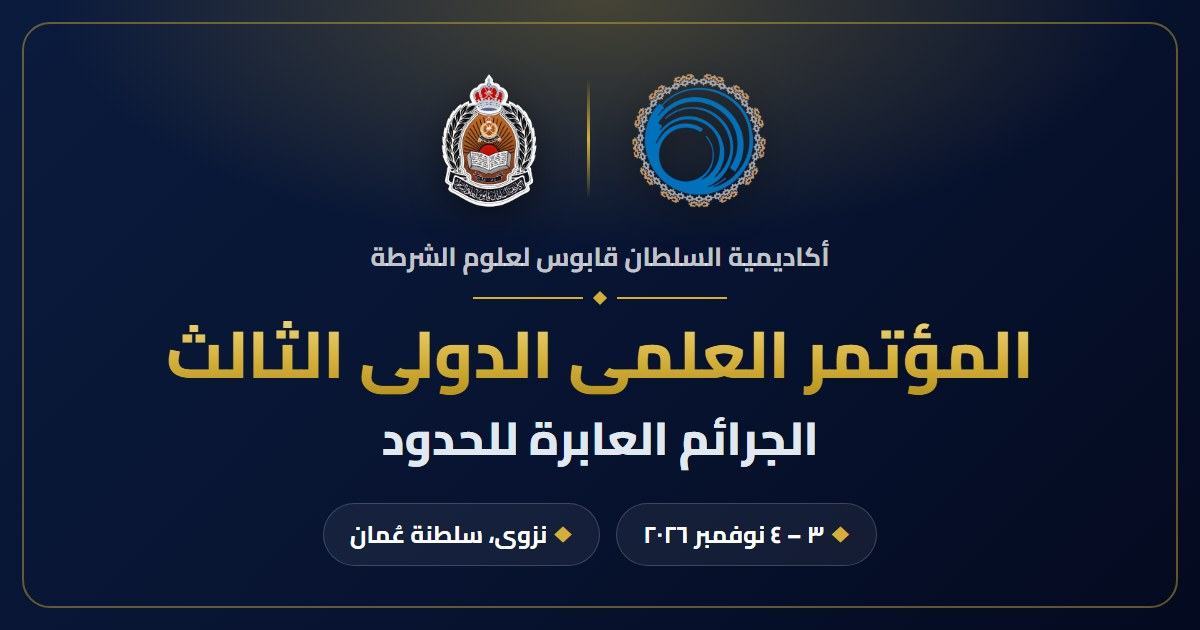
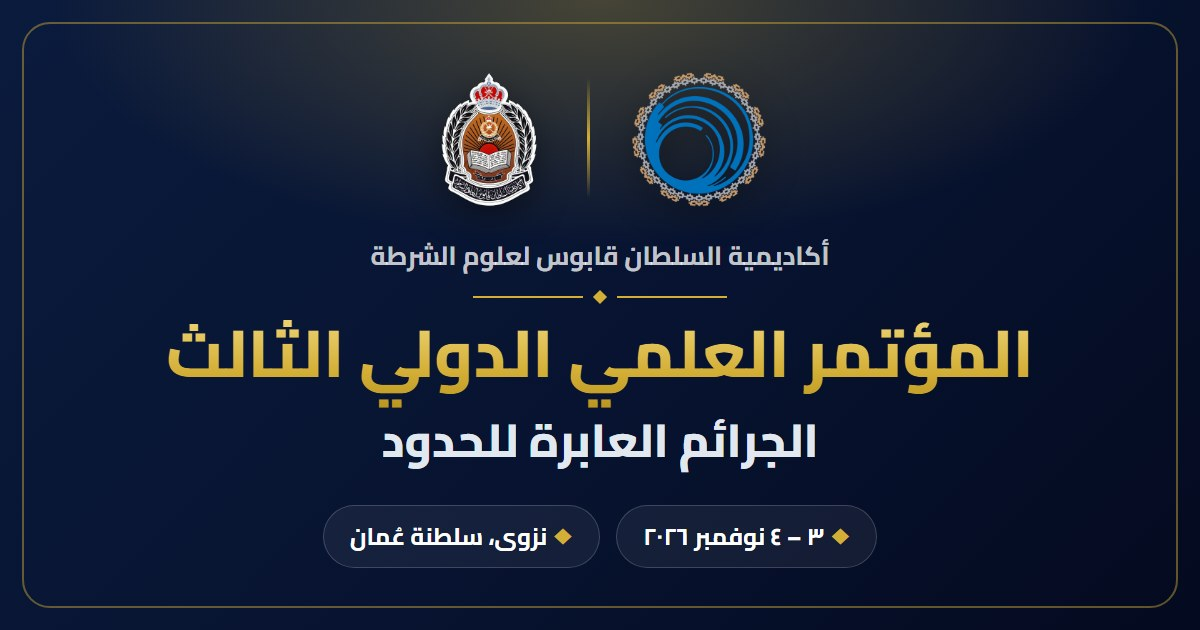
إظهار نقاط الياء في العنوان، وإرجاع الحركة بشكل مريح، وتحديث برنامج المؤتمر
- العنوان الذهبي: نقاط «ي» كانت تقع خارج صندوق التدرج (background-clip: text)
  فتختفي؛ أُضيفت مسافة سفلية للعنوان. وأُعيد إنتاج بطاقة المشاركة بنفس الإصلاح.
- الحركة: حركات دخول الهيدر والصفحة صارت CSS (تبدأ مع أول ظهور للصفحة بدون
  انتظار JavaScript)، وحُذف تعطيل كل الحركات عند إعداد «تقليل الحركة».
- برنامج المؤتمر: يُعرض في قسم البرنامج كلمة «الجلسة» بدل «المحور».

diff --git a/src/components/conference/Header.tsx b/src/components/conference/Header.tsx
@@ -76,12 +76,7 @@ export function Header() {
 
       <div className="relative mx-auto flex max-w-6xl flex-col items-center px-4 pb-24 pt-14 text-center sm:px-6 sm:pt-20 md:pb-32">
         {/* Dual logos: academy (right) — vertical interactive line — conference (left) */}
-        <motion.div
-          initial={{ scale: 0.96 }}
-          animate={{ scale: 1 }}
-          transition={{ duration: 0.6, ease: "easeOut" }}
-          className="group relative flex items-center gap-3 sm:gap-5"
-        >
+        <motion.div className="hero-pop group relative flex items-center gap-3 sm:gap-5">
           {/* Academy logo (RIGHT — first in RTL) — 3D effect, no box, no glow */}
           <motion.div
             whileHover={{ scale: 1.05, rotateY: -8 }}
@@ -149,34 +144,28 @@ export function Header() {
         </motion.div>
 
         {/* Academy name */}
-        <motion.p
-          initial={{ y: 8 }}
-          animate={{ y: 0 }}
-          transition={{ duration: 0.5, delay: 0.15 }}
-          className="mt-6 text-sm font-medium tracking-wide text-white/70 sm:text-base"
+        <p
+          className="hero-rise mt-6 text-sm font-medium tracking-wide text-white/70 sm:text-base"
+          style={{ animationDelay: "120ms" }}
         >
           {get("conference.academy", conferenceInfo.academy)}
-        </motion.p>
+        </p>
 
         {/* Gold divider with diamond */}
-        <motion.div
-          initial={{ scaleX: 0 }}
-          animate={{ scaleX: 1 }}
-          transition={{ duration: 0.6, delay: 0.25 }}
-          className="mt-4 flex items-center gap-3"
+        <div
+          className="hero-rise mt-4 flex items-center gap-3"
+          style={{ animationDelay: "200ms" }}
         >
           <span className="h-px w-16 bg-gradient-to-l from-transparent to-[#D4AF37] sm:w-24" />
           <span className="h-1.5 w-1.5 rotate-45 bg-[#D4AF37]" />
           <span className="h-px w-16 bg-gradient-to-r from-transparent to-[#D4AF37] sm:w-24" />
-        </motion.div>
+        </div>
 
         {/* Conference title — gold gradient for premium feel */}
-        <motion.h1
-          initial={{ y: 12 }}
-          animate={{ y: 0 }}
-          transition={{ duration: 0.6, delay: 0.3 }}
-          className="mt-7 text-3xl font-extrabold leading-[1.35] tracking-tight sm:text-4xl md:text-5xl"
+        <h1
+          className="hero-rise mt-7 pb-[0.22em] text-3xl font-extrabold leading-[1.35] tracking-tight text-balance sm:text-4xl md:text-5xl"
           style={{
+            animationDelay: "280ms",
             background: "linear-gradient(180deg, #F0D77A 0%, #D4AF37 60%, #B8941F 100%)",
             WebkitBackgroundClip: "text",
             backgroundClip: "text",
@@ -184,34 +173,28 @@ export function Header() {
           }}
         >
           {get("conference.title", conferenceInfo.title)}
-        </motion.h1>
+        </h1>
 
         {/* Subtitle */}
-        <motion.p
-          initial={{ y: 12 }}
-          animate={{ y: 0 }}
-          transition={{ duration: 0.6, delay: 0.4 }}
-          className="mt-3 text-2xl font-bold leading-snug text-[#E2E8F0] sm:text-3xl md:text-4xl"
+        <p
+          className="hero-rise mt-3 text-2xl font-bold leading-snug text-[#E2E8F0] sm:text-3xl md:text-4xl"
+          style={{ animationDelay: "380ms" }}
         >
           {get("conference.subtitle", conferenceInfo.subtitle)}
-        </motion.p>
+        </p>
 
         {/* Tagline */}
-        <motion.p
-          initial={{ y: 10 }}
-          animate={{ y: 0 }}
-          transition={{ duration: 0.6, delay: 0.48 }}
-          className="mt-4 max-w-2xl text-sm leading-relaxed text-white/65 sm:text-base"
+        <p
+          className="hero-rise mt-4 max-w-2xl text-sm leading-relaxed text-white/65 sm:text-base"
+          style={{ animationDelay: "460ms" }}
         >
           {get("conference.tagline", conferenceInfo.tagline)}
-        </motion.p>
+        </p>
 
         {/* Quick facts row */}
-        <motion.div
-          initial={{ y: 10 }}
-          animate={{ y: 0 }}
-          transition={{ duration: 0.6, delay: 0.56 }}
-          className="mt-8 flex flex-wrap items-center justify-center gap-3 sm:gap-4"
+        <div
+          className="hero-rise mt-8 flex flex-wrap items-center justify-center gap-3 sm:gap-4"
+          style={{ animationDelay: "540ms" }}
         >
           {facts.map((f) => (
             <div
@@ -222,7 +205,7 @@ export function Header() {
               <span dir="rtl">{f.label}</span>
             </div>
           ))}
-        </motion.div>
+        </div>
       </div>
     </header>
   );

diff --git a/src/app/globals.css b/src/app/globals.css
@@ -105,17 +105,10 @@
     text-rendering: optimizeLegibility;
     font-feature-settings: "kern" 1, "liga" 1;
   }
-  /* Respect the OS "reduce motion" setting for CSS animations/transitions too. */
+  /* "Reduce motion" setting: keep the site's animations, just no smooth scroll. */
   @media (prefers-reduced-motion: reduce) {
     html {
       scroll-behavior: auto;
-    }
-    *,
-    *::before,
-    *::after {
-      animation-duration: 0.01ms !important;
-      animation-iteration-count: 1 !important;
-      transition-duration: 0.01ms !important;
     }
   }
   /* Faster taps on touch screens (no double-tap zoom delay on controls). */
@@ -191,4 +184,45 @@ body.modal-open {
     transform: scale(1.8);
     opacity: 0;
   }
+}
+
+/* ── Hero entrance (CSS, runs before hydration) ─────────────────────────── */
+@keyframes hero-rise {
+  from {
+    opacity: 0;
+    transform: translateY(14px);
+  }
+  to {
+    opacity: 1;
+    transform: none;
+  }
+}
+@keyframes hero-pop {
+  from {
+    opacity: 0;
+    transform: scale(0.92);
+  }
+  to {
+    opacity: 1;
+    transform: none;
+  }
+}
+@keyframes page-rise {
+  from {
+    opacity: 0;
+    transform: translateY(18px);
+  }
+  to {
+    opacity: 1;
+    transform: none;
+  }
+}
+.hero-rise {
+  animation: hero-rise 0.7s cubic-bezier(0.22, 1, 0.36, 1) both;
+}
+.hero-pop {
+  animation: hero-pop 0.8s cubic-bezier(0.22, 1, 0.36, 1) both;
+}
+.page-rise {
+  animation: page-rise 0.8s cubic-bezier(0.22, 1, 0.36, 1) 0.35s both;
 }

diff --git a/src/components/conference/PageTransition.tsx b/src/components/conference/PageTransition.tsx
@@ -1,23 +1,11 @@
-"use client";
-
-import { motion } from "framer-motion";
 import type { ReactNode } from "react";
 
 /**
- * PageTransition — wraps page content with a smooth fade+slide-up entrance
- * animation. Used to add a polished page-load transition between sections.
+ * PageTransition — fades and slides the page content in on load.
  *
- * The transition runs once on mount (not on every scroll) — this is a
- * page-load effect, not a scroll-triggered one.
+ * Pure CSS (.page-rise in globals.css) so it starts with the first paint:
+ * content never waits for JavaScript to become visible.
  */
 export function PageTransition({ children }: { children: ReactNode }) {
-  return (
-    <motion.div
-      initial={{ y: 12 }}
-      animate={{ y: 0 }}
-      transition={{ duration: 0.5, ease: "easeOut" }}
-    >
-      {children}
-    </motion.div>
-  );
+  return <div className="page-rise">{children}</div>;
 }

diff --git a/src/app/layout.tsx b/src/app/layout.tsx
@@ -3,7 +3,6 @@ import { Cairo } from "next/font/google";
 import "./globals.css";
 import { Toaster } from "@/components/ui/toaster";
 import { SiteContentProvider } from "@/components/conference/SiteContentProvider";
-import { MotionProvider } from "@/components/conference/MotionProvider";
 
 // Cairo is the site's only typeface. next/font self-hosts it (no request to
 // Google at runtime) and serves the variable font, so every weight is covered.
@@ -62,9 +61,7 @@ export default function RootLayout({
   return (
     <html lang="ar" dir="rtl" className={cairo.variable} suppressHydrationWarning>
       <body className="font-cairo antialiased bg-background text-foreground">
-        <MotionProvider>
-          <SiteContentProvider>{children}</SiteContentProvider>
-        </MotionProvider>
+        <SiteContentProvider>{children}</SiteContentProvider>
         <Toaster />
       </body>
     </html>

diff --git a/src/components/conference/ScheduleSection.tsx b/src/components/conference/ScheduleSection.tsx
@@ -220,7 +220,7 @@ export function ScheduleSection() {
                           <span className="flex h-4 w-4 items-center justify-center rounded bg-[#0B1B3D] text-[9px] font-extrabold text-[#D4AF37]">
                             {track.id}
                           </span>
-                          {`المحور ${track.id}`}
+                          {`الجلسة ${track.id}`}
                         </span>
                       )}
                     </div>
